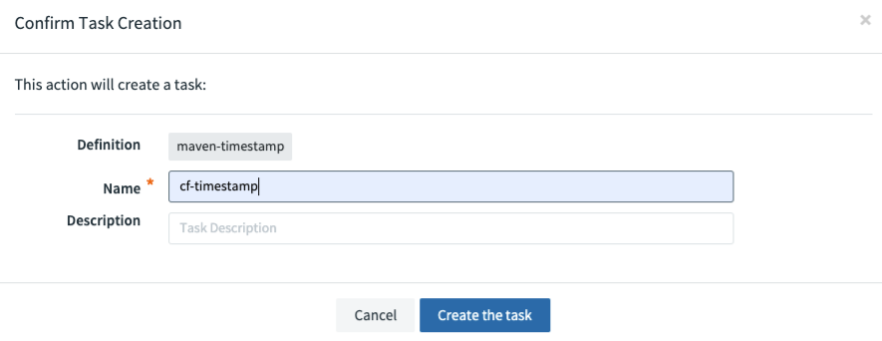
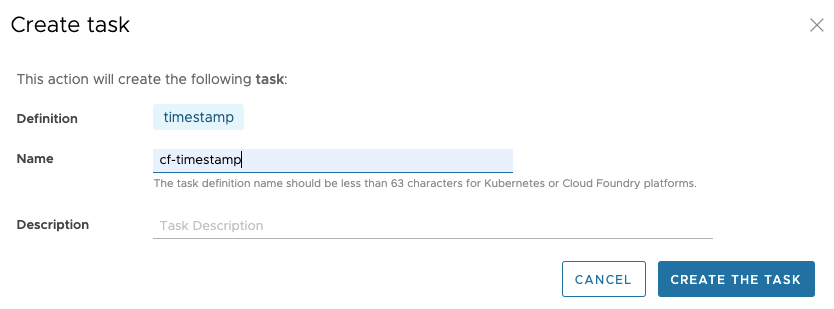
Updating images and text for the multi-platform task 2.7

diff --git a/content/documentation/pages/6-recipes/5-multi-platform-deployment/2-multi-platform-task.md b/content/documentation/pages/6-recipes/5-multi-platform-deployment/2-multi-platform-task.md
@@ -48,16 +48,14 @@ kubectl create clusterrolebinding scdftestrole --clusterrole cluster-admin --use
 This exercise will use the pre-built timestamp application provided by Spring Cloud Data Flow. If you haven't already registered your pre-built task applications, then follow the following instructions:
 
 1. Bring up the Spring Cloud Data Flow UI in a browser.
-1. Click the `Apps` tab located on the left side of the page.
-   ![Select App Tab](images/k8-k8-task-select-app-tab.png)
-1. Click the `Add Application(s)` button at the top of the page.
+1. Click the `Applications` tab located on the left side of the page.
+1. Click the `ADD APPLICATION(S)` button at the top of the page.
    ![Register Task Applications Button](images/k8-k8-task-register-apps-button.png)
-1. When the `Add Applications(s)` page appears click the `Bulk import application` radio button
+1. When the `Add Applications(s)` page appears click the `Import application starters from dataflow.spring.io.` option.
    ![Bulk Import Applications](images/k8-k8-task-bulk-import.png)
-1. Click `Task Apps (Docker)` option link.
+1. Click `Task application starters for Docker` radio button.
    ![Select Docker for Import](images/k8-k8-task-docker-selection.png)
-1. Click the `Import the application(s)` button on the bottom of the page.
-   ![Import Pre-built Applications](images/k8-k8-task-import-apps.png)
+1. Click the `IMPORT APPLICATION(S)` button on the bottom of the page.
 
 ### Create Task Definitions
 
@@ -67,14 +65,13 @@ To create the `timestamp-task` definition follow the instructions below:
 
 1. Click the `Tasks` tab on the left side of the UI.  
    ![Select Task Tab](images/k8-k8-task-select-task.png)
-1. Click the `Create task(s)" button on the page.
-   ![Create Task](images/k8-k8-task-create-task.png)
-1. Type the word `timestamp` in the text box, then click the `Create Task` button.
+1. Click the `CREATE TASK" button on the page.
+1. Type the word `timestamp` in the text box, then click the `CREATE TASK` button.
    ![Create Timestamp Task](images/k8-k8-create-timestamp-task.png)
-1. When the`Confirm Task Creation` dialog appears enter the following into the `Name` field: `timestamp-task`. Then click the `Create the task` button.
+1. When the`Create Task` dialog appears enter the following into the `Name` field: `timestamp-task`. Then click the `CREATE THE TASK` button.
    ![Name the New Task Definition](images/k8-k8-create-timestamp-task-dialog.png)
 
-To create the `timestamp-task-2` definition follow the `timestamp-task` instructions above except for the step when the `Confirm Task Creation` dialog appears, the name will be `timestamp-task-2`.
+To create the `timestamp-task-2` definition follow the `timestamp-task` instructions above except for the step when the `Create Task` dialog appears, the name will be `timestamp-task-2`.
 
 Now both task definitions will be available as shown below:  
 ![Task Definition List](images/k8-k8-task-definition-list.png)
@@ -83,11 +80,11 @@ Now both task definitions will be available as shown below:
 
 In this section we will launch `timestamp-task` in the default platform and then launch timestamp-task-2 in the practice platform.
 
-1. Click the play button associated with the `timestamp-task` task definition
+1. Click the option control associated with the `timestamp-task` task definition and select the **Launch** option.
    ![Launch timestamp-task](images/k8-k8-task-def-launch-timestamp-task.png)
 1. Now select the platform you want the `timestamp-task` to be launched, in this case the `default` namespace.
    ![Launch timestamp-task-platform-select](images/k8-k8-task-timestamp-platform-select.png)
-1. Click the `Launch the task` button at the bottom of the page.
+1. Click the `LAUNCH THE TASK` button at the bottom of the page.
 
 To verify the pod executed you can view the result via the task execution page or by launching the following `kubectl` command to view the pods in the `default` namespace:
 
@@ -103,11 +100,11 @@ timestamp-task-v9jrm66p55    0/1     Completed   0          87s
 
 Now to launch a task in the practice name space follow the instructions below:
 
-1. Click the play button associated with the `timestamp-task-2` task definition
+1. Click the option control associated with the `timestamp-task-2` task definition and select the **Launch** option.
    ![Launch timestamp-task](images/k8-k8-task-def-launch-timestamp-task-2.png)
-1. Now select the platform you want the `timestamp-task` to be launched, in this case the `default` namespace.
+1. Now select the platform you want the `timestamp-task` to be launched, in this case the `practice` namespace.
    ![Launch timestamp-task-platform-select](images/k8-k8-task-timestamp-2-platform-select.png)
-1. Click the `Launch the task` button at the bottom of the page.
+1. Click the `LAUNCH THE TASK` button at the bottom of the page.
 
 To verify the pod executed you can view the result via the task execution page or by launching the following `kubectl` command to view the pods in the `default` namespace:
 
@@ -289,7 +286,7 @@ Add the following commandline arg when launching the task (replacing `<ext db co
 It should look something like:
 ![Timestamp-task launch](images/k8-k8-remote-timestamp-task-launch.png)
 
-To verify the task was launched select the task executions tab at the top of the page and you will see results that look like:
+To verify the task was launched select the **Task executions** tab on the left side of the page and you will see results that look like:
 ![timestamp-task execution](images/k8-k8-remote-timestamp-task-execution.png)
 
 Also you can verify the launch by viewing the pod list for the `default` namespace for example:
@@ -305,7 +302,7 @@ Add the following command line arg when launching the task:
 It should look something like:
 ![Timestamp-task launch](images/k8-k8-remote-timestamp-task-2-launch.png)
 
-To verify the task was launched select the task executions tab at the top of the page and you will see results that look like:
+To verify the task was launched select the **Task executions** tab on the left side of the page and you will see results that look like:
 ![timestamp-task execution](images/k8-k8-remote-timestamp-task-2-execution.png)
 
 Also you can verify the launch by viewing the pod list for the `practice` namespace for example:
@@ -436,15 +433,13 @@ In this exercise SCDF will be launching both docker and maven images of the time
 
 1. Register the sample docker task apps provided by SCDF as denoted in the instructions [here](#registering-pre-built-tasks).
 1. Register the maven instance of timestamp as follows:
-   ![Select App Tab](images/k8-k8-task-select-app-tab.png)
-1. Click the `Add Application(s)` button at the top of the page.
+1. Click the `ADD APPLICATON(S)` button at the top of the page.
    ![Register Task Applications Button](images/k8-k8-task-register-apps-button.png)
 1. When the `Add Applications(s)` page appears click the `Register one or more applications` radio button
    ![Register New Image](images/k8-cf-maven-registration.png)
 1. Enter in the information as it is shown below.
    ![Select Docker for Import](images/k8-cf-maven-register-maven-timestamp.png)
-1. Click the `Register the application(s)` button on the bottom of the page.
-   ![Import Pre-built Applications](images/k8-cf-register-maven-timestamp-click.png)
+1. Click the `IMPORT APPLICATION(S)` button on the bottom of the page.
 
 ### Create Task Definitions
 
@@ -454,22 +449,20 @@ To create the `k8-timestamp` definition follow the instructions below:
 
 1. Click the `Tasks` tab on the left side of the UI.  
    ![Select Task Tab](images/k8-k8-task-select-task.png)
-1. Click the `Create task(s)" button on the page.
-   ![Create Task](images/k8-k8-task-create-task.png)
-1. Type the word `timestamp` in the text box, then click the `Create Task` button.
+1. Click the `CREATE TASK" button on the page.
+1. Type the word `timestamp` in the text box, then click the `CREATE TASK` button.
    ![Create Timestamp Task](images/k8-k8-create-timestamp-task.png)
-1. When the`Confirm Task Creation` dialog appears enter the following into the `Name` field: `timestamp-task`. Then click the `Create the task` button.
+1. When the`Create Task` dialog appears enter the following into the `Name` field: `k8-timestamp`. Then click the `CREATE THE TASK` button.
    ![Name the New Task Definition](images/k8-cf-create-timestamp-task-dialog.png)
 
 To create the `cf-timestamp` definition follow the instructions below:
 
 1. Click the `Tasks` tab on the left side of the UI.  
    ![Select Task Tab](images/k8-k8-task-select-task.png)
-1. Click the `Create task(s)" button on the page.
-   ![Create Task](images/k8-k8-task-create-task.png)
-1. Type the word `maven-timestamp` in the text box, then click the `Create Task` button.
+1. Click the `CREATE TASK" button on the page.
+1. Type the word `maven-timestamp` in the text box, then click the `CREATE TASK` button.
    ![Create Timestamp Task](images/k8-cf-create-timestamp-task.png)
-1. When the`Confirm Task Creation` dialog appears enter the following into the `Name` field: `timestamp-task`. Then click the `Create the task` button.
+1. When the`Create Task` dialog appears enter the following into the `Name` field: `cf-timestamp`. Then click the `CREATE THE TASK` button.
    ![Name the New Task Definition](images/k8-cf-create-timestamp-maven-task-dialog.png)
 
 Now both task definitions will be available as shown below:  
@@ -479,11 +472,11 @@ Now both task definitions will be available as shown below:
 
 In this section we will launch `cf-timestamp` on the `cfzone` (Cloud Foundry) platform and then launch k8-timestamp on the `kzone` (Kuberntes) platform.
 
-1. Click the play button associated with the `cf-timestamp` task definition
+1. Click the option control on the left side of the row associated with the `cf-timestamp` task definition and select the **Launch** option.
    ![Launch timestamp-task](images/k8-cf-task-def-launch-timestamp-task.png)
 1. Now select the platform you want the `cf-timestamp` to be launched, in this case the `cfzone` namespace.
    ![Launch cf-timestamp-task-platform-select](images/k8-cf-task-timestamp-platform-select.png)
-1. Click the `Launch the task` button at the bottom of the page.
+1. Click the `LAUNCH THE TASK` button at the bottom of the page.
 
 To verify the application executed you can view the result via the task execution page or by launching the following `cf apps` command to view the application in the configured org/space:
 
@@ -498,11 +491,11 @@ id   name                                                                       
 
 Now to launch a task in the default name space on the `kzone` (kubernetes) platform follow the instructions below:
 
-1. Click the play button associated with the `timestamp-task-2` task definition
+1. Click the option control on the row associated with the `k8-timestamp` task definition and select the **Launch** option.
    ![Launch k8-timestamp-task](images/k8-cf-task-def-launch-k8-timestamp.png)
-1. Now select the platform you want the `timestamp-task` to be launched, in this case the `default` namespace.
+1. Now select the platform you want the `k8-timestamp` to be launched, in this case the `kzone` namespace.
    ![Launch k8- timestamp-task-platform-select](images/k8-cf-task-timestamp-k8-platform-select.png)
-1. Click the `Launch the task` button at the bottom of the page.
+1. Click the `LAUNCH THE TASK` button at the bottom of the page.
 
 To verify the pod executed you can view the result via the task execution page or by launching the following `kubectl` command to view the pods in the `default` namespace:
 
